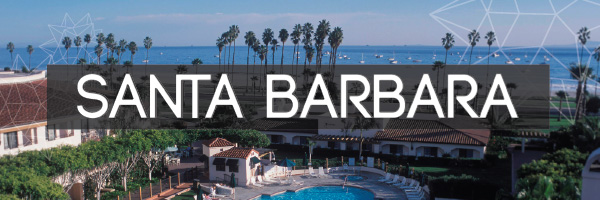
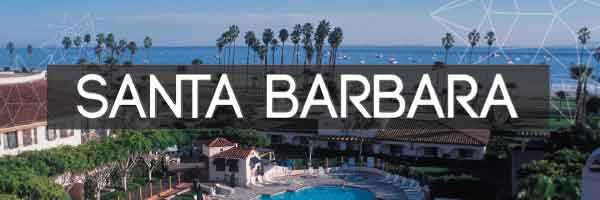
Sampled images down for faster email loading

diff --git a/emails/codefest-promo-email.html b/emails/codefest-promo-email.html
@@ -497,7 +497,7 @@ If so, check out the ¬Open Science Codefest 2014.
                                         </tr>
                                     	<tr>
                                         	<td class="bodyContent" style="padding-top:0; padding-bottom:0;">
-                                            	<a href="http://nceas.github.io/open-science-codefest/"><img src="http://nceas.github.io/open-science-codefest/emails/register.png" style="max-width:560px;" id="bodyImage" mc:label="body_image" mc:edit="body_image" mc:allowtext /></a>
+                                            	<a href="http://nceas.github.io/open-science-codefest/"><img src="http://nceas.github.io/open-science-codefest/emails/register.jpg" style="max-width:560px;" id="bodyImage" mc:label="body_image" mc:edit="body_image" mc:allowtext /></a>
                                             </td>
                                         </tr>
                                         <tr>
